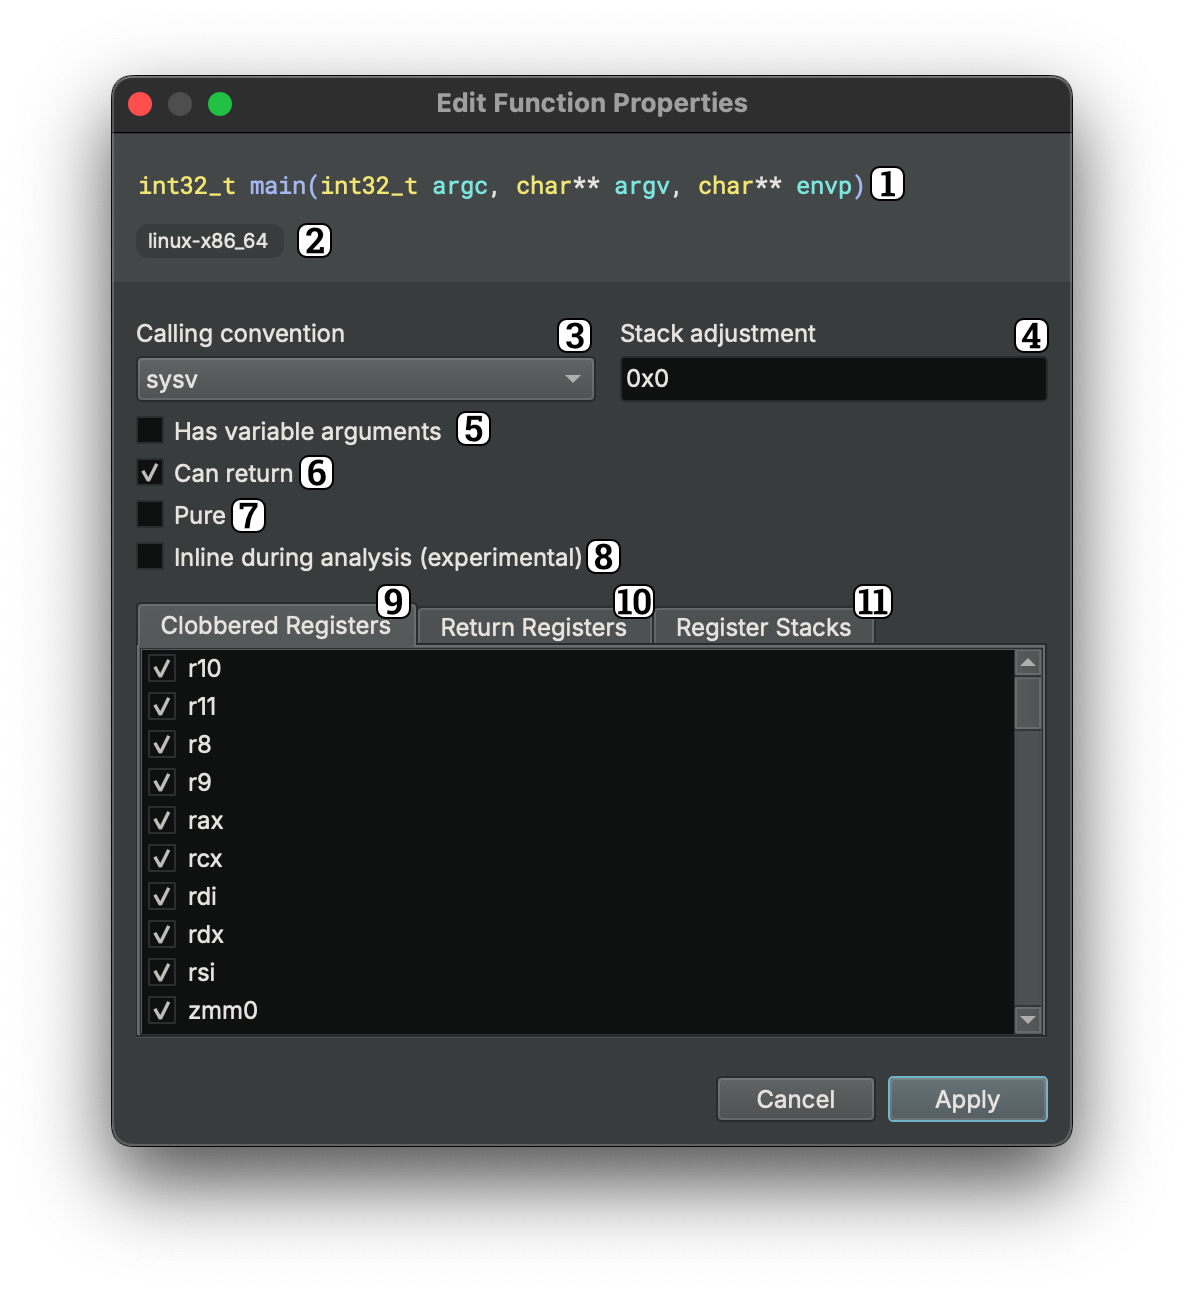
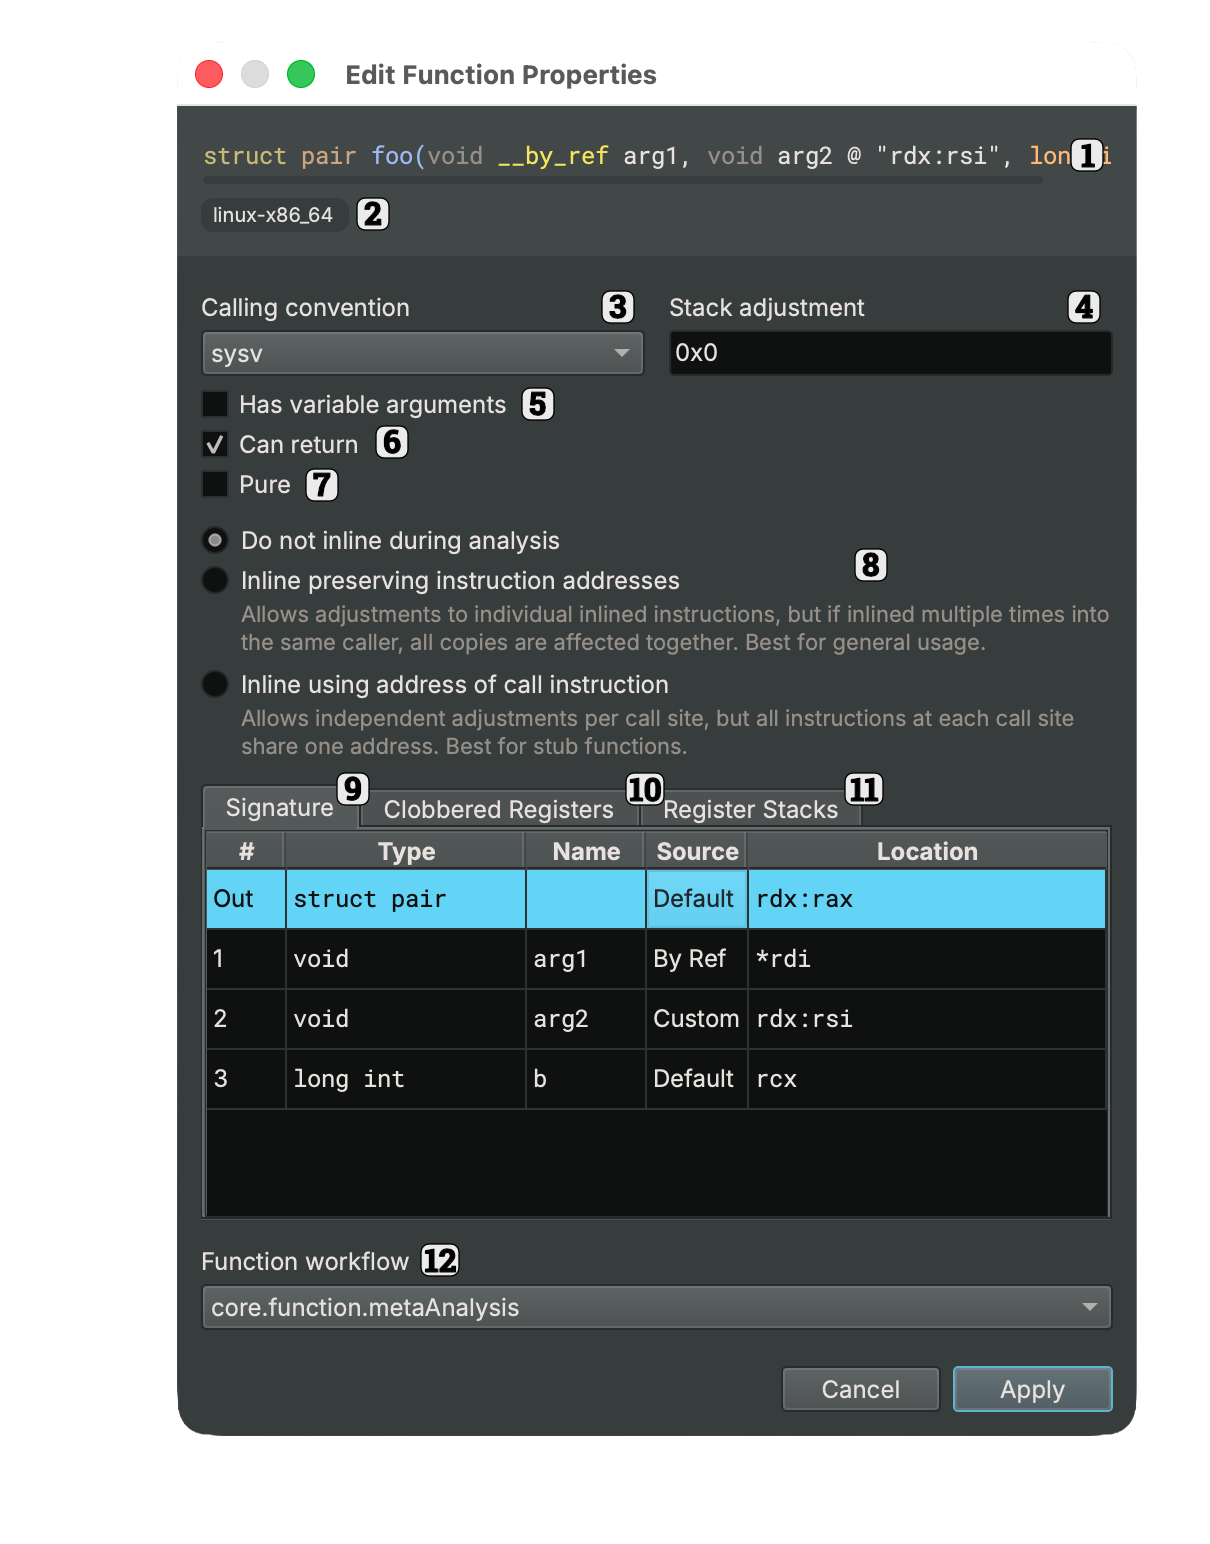
Updated Edit Function Properties dialog + screenshot

diff --git a/docs/guide/index.md b/docs/guide/index.md
@@ -882,19 +882,23 @@ Pure functions are assumed to have no side effects and may be inlined if their r
 
 ### 8. Inline During Analysis
 
-When Inline During Analysis is checked, it causes the function to be [inlined](https://api.binary.ninja/binaryninja.function-module.html#binaryninja.function.Function.inline_during_analysis) during analysis.
+When Inline During Analysis is checked, it causes the function to be [inlined](https://api.binary.ninja/binaryninja.function-module.html#binaryninja.function.Function.inline_during_analysis) during analysis. The three options control whether instruction addresses are preserved per function or per call site.
 
-### 9. Clobbered Registers
+### 9. Signature Table
+
+This section contains the function's return value and parameters as an editable table with columns for index, type, name, source, and location.
+
+### 10. Clobbered Registers
 
 This section contains the list of registers that this function clobbers; individual registers can be checked or unchecked.
-
-### 10. Return Registers
-
-Return registers shows the list of registers that this function returns data in; individual registers can be checked or unchecked.
 
 ### 11. Register Stack Adjustments
 
 This element is a table containing a row for each register stack (e.g. x87) in the architecture, with the ability to adjust how many registers are removed from each stack when the function returns.
+
+### 12. Function Workflow
+
+This dropdown selects the [function-level workflow](https://docs.binary.ninja/dev/workflows.html#workflow) which is used to analyze this function.
 
 ## High Level IL
 